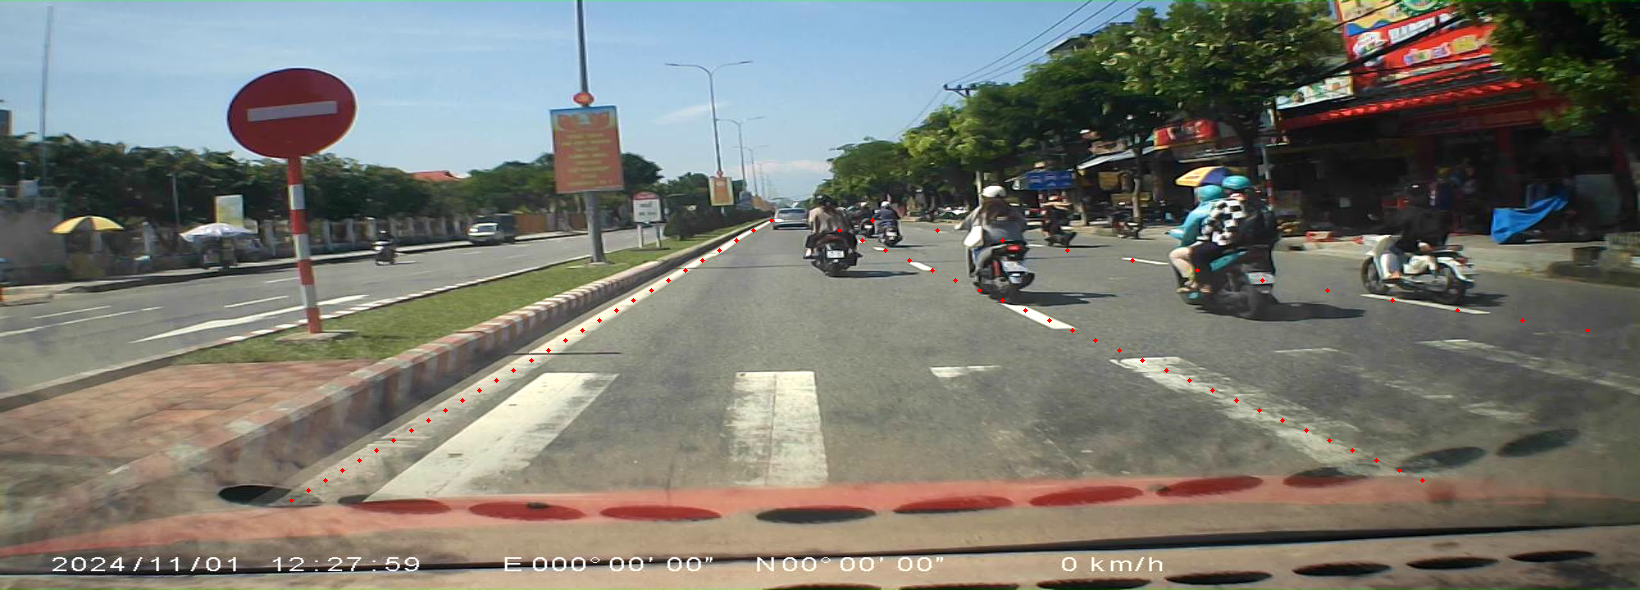
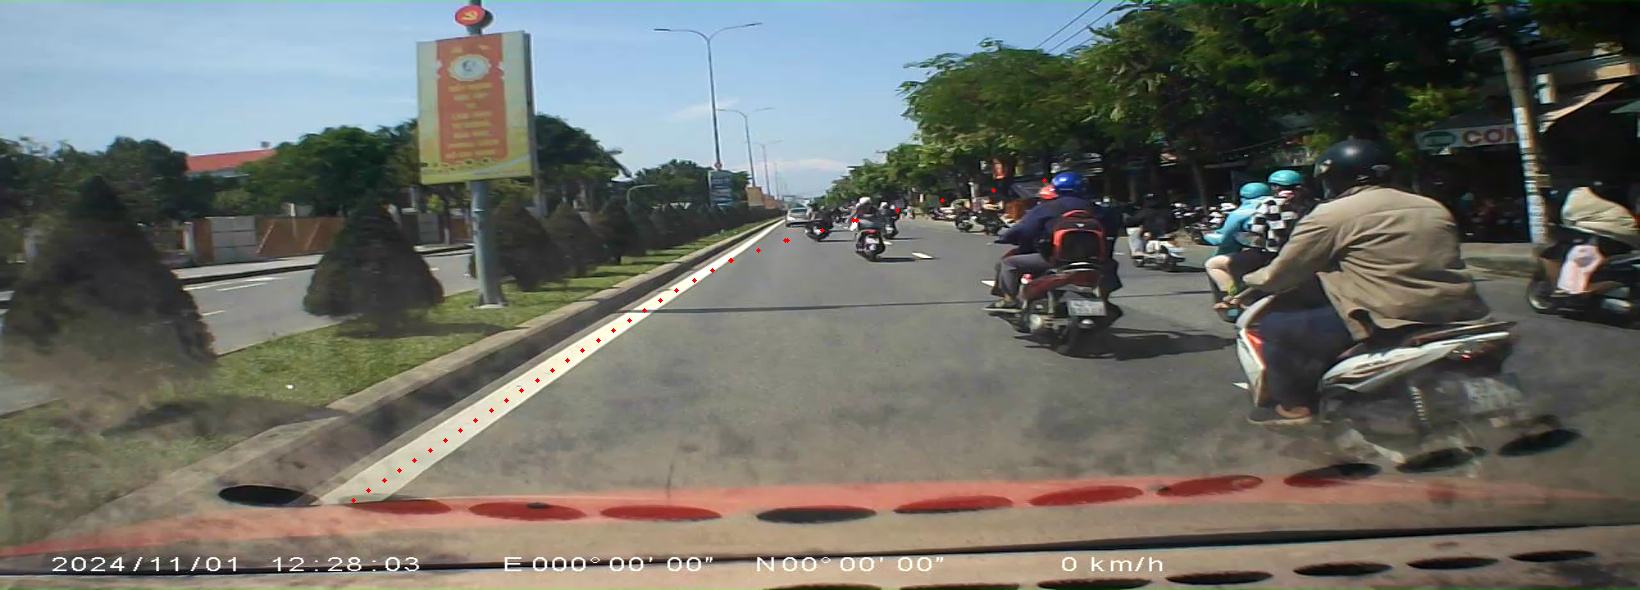
fix points

diff --git a/tool_label.py b/tool_label.py
@@ -386,50 +386,123 @@ class AnnotationTool:
         x2, y2 = line[1]
         points = []
 
-        # Calculate the slope and intercept of the line
-        slope = (y2 - y1) / (x2 - x1) if x2 != x1 else float('inf')
-        intercept = y1 - slope * x1
-
-        # Ensure y values are rounded to the nearest multiple of 10
-        y_start = round(y1 / 10) * 10
-        y_end = round(y2 / 10) * 10
-
-        # Determine the range for the y-axis based on the direction of drawing
-        if y_start < y_end:
-            y_range = np.arange(y_start, y_end + 10, 10)
+        # Tính độ dốc và hệ số chặn
+        if x2 != x1:
+            slope = (y2 - y1) / (x2 - x1)
         else:
-            y_range = np.arange(y_start, y_end - 10, -10)  # Reverse the range if drawing from bottom to top
+            slope = float('inf')
 
-        for y in y_range:
-            if slope != float('inf'):
+        # Trường hợp đường thẳng đứng (vertical)
+        if slope == float('inf'):
+            y_start = round(min(y1, y2) / 10) * 10
+            y_end = round(max(y1, y2) / 10) * 10
+            y_range = np.arange(y_start, y_end + 10, 10) if y_start < y_end else np.arange(y_start, y_end - 10, -10)
+            for y in y_range:
+                points.append((x1, y))
+        # Trường hợp đường thẳng ngang (horizontal)
+        elif slope == 0:
+            x_start = round(min(x1, x2) / 10) * 10
+            x_end = round(max(x1, x2) / 10) * 10
+            x_range = np.arange(x_start, x_end + 10, 10) if x_start < x_end else np.arange(x_start, x_end - 10, -10)
+            for x in x_range:
+                points.append((x, y1))  # y giữ nguyên vì đường ngang
+        # Trường hợp đường thẳng nghiêng (slanted)
+        else:
+            intercept = y1 - slope * x1
+            y_start = round(min(y1, y2) / 10) * 10
+            y_end = round(max(y1, y2) / 10) * 10
+            y_range = np.arange(y_start, y_end + 10, 10) if y_start < y_end else np.arange(y_start, y_end - 10, -10)
+            for y in y_range:
                 x = (y - intercept) / slope
-            else:
-                x = x1
-            # Keep x as float and round y to the nearest multiple of 10
-            points.append((x, y))
-        
+                points.append((x, y))
+
         return points
 
+    def generate_points_from_curve_or_polygon(self, points):
+        all_points = []
+        
+        for i in range(len(points) - 1):
+            x1, y1 = points[i]
+            x2, y2 = points[i + 1]
+            
+            # Tính độ dốc và khoảng cách
+            dx = x2 - x1
+            dy = y2 - y1
+            
+            # Trường hợp đường thẳng đứng (vertical)
+            if dx == 0:
+                y_start = round(min(y1, y2) / 10) * 10
+                y_end = round(max(y1, y2) / 10) * 10
+                y_range = np.arange(y_start, y_end + 10, 10) if y_start < y_end else np.arange(y_start, y_end - 10, -10)
+                for y in y_range:
+                    all_points.append((x1, y))
+            
+            # Trường hợp đường thẳng ngang (horizontal)
+            elif dy == 0:
+                x_start = round(min(x1, x2) / 10) * 10
+                x_end = round(max(x1, x2) / 10) * 10
+                x_range = np.arange(x_start, x_end + 10, 10) if x_start < x_end else np.arange(x_start, x_end - 10, -10)
+                for x in x_range:
+                    all_points.append((x, y1))
+            
+            # Trường hợp đường thẳng nghiêng (slanted)
+            else:
+                slope = dy / dx
+                intercept = y1 - slope * x1
+                y_start = round(min(y1, y2) / 10) * 10
+                y_end = round(max(y1, y2) / 10) * 10
+                y_range = np.arange(y_start, y_end + 10, 10) if y_start < y_end else np.arange(y_start, y_end - 10, -10)
+                for y in y_range:
+                    x = (y - intercept) / slope
+                    all_points.append((x, y))
+        
+        # Đảm bảo điểm cuối cùng được thêm vào nếu chưa có
+        if points[-1] not in all_points:
+            all_points.append(points[-1])
+        
+        return all_points
+
+    def generate_points_from_polyline(self, segments):
+        all_points = []
+        for seg in segments:
+            line_points = self.generate_points_from_line([seg['start'], seg['end']])
+            if all_points and line_points and line_points[0] == all_points[-1]:
+                line_points = line_points[1:]
+            all_points.extend(line_points)
+        # Remove duplicates while preserving order
+        return list(dict.fromkeys(all_points))
 
     def generate_and_save_points(self, base_name):
-        points_per_line = []
-
+        points_per_object = []
         for obj in self.annotations:
+            obj_points = []
             for annotation in obj['annotations']:
                 if annotation[0] == 'line':
-                    line = [annotation[1], annotation[2]]  # Get the start and end coordinates
+                    line = [annotation[1], annotation[2]]
                     points = self.generate_points_from_line(line)
-                    points_per_line.append(points)
+                    obj_points.extend(points)
+                elif annotation[0] == 'curve':
+                    points = self.generate_points_from_curve_or_polygon(annotation[1])
+                    obj_points.extend(points)
+                elif annotation[0] == 'polyline':
+                    points = self.generate_points_from_polyline(annotation[1])
+                    obj_points.extend(points)
+                elif annotation[0] == 'polygon':
+                    points = self.generate_points_from_curve_or_polygon(annotation[1])
+                    obj_points.extend(points)
+            if obj_points:
+                points_per_object.append(obj_points)
 
-        # Write points to a text file
         txt_path = f"gt_image/{base_name}.lines.txt"
-        with open(txt_path, "w") as file:
-            for line_points in points_per_line:
-                # Sort points by y in descending order
-                line_points_sorted = sorted(line_points, key=lambda point: point[1], reverse=True)
-                # Convert the list of points into a single string, where each point is separated by a space
-                line_str = " ".join([f"{point[0]:.4f} {point[1]}" for point in line_points_sorted])
-                file.write(line_str + "\n")  # Write each lane's points as a single line
+        try:
+            with open(txt_path, "w") as file:
+                for obj_points in points_per_object:
+                    sorted_points = sorted(obj_points, key=lambda p: p[1], reverse=True)
+                    line_str = " ".join([f"{pt[0]:.4f} {pt[1]}" for pt in sorted_points])
+                    file.write(line_str + "\n")
+            self.show_status(f"Saved points to {txt_path}")
+        except Exception as e:
+            self.show_status(f"Error saving points to {txt_path}: {str(e)}", error=True)
 
     def save_images(self, event=None):
         if not self.img_path or len(self.image_path_list) == 0:

diff --git a/test.py b/test.py
@@ -1,0 +1,101 @@
+import json
+import numpy as np
+import os
+
+def generate_points_from_line(line):
+    x1, y1 = line[0]
+    x2, y2 = line[1]
+    points = []
+    slope = (y2 - y1) / (x2 - x1) if x2 != x1 else float('inf')
+    intercept = y1 - slope * x1
+    y_start = round(y1 / 10) * 10
+    y_end = round(y2 / 10) * 10
+    if y_start < y_end:
+        y_range = np.arange(y_start, y_end + 10, 10)
+    else:
+        y_range = np.arange(y_start, y_end - 10, -10)
+    for y in y_range:
+        if slope != float('inf'):
+            x = (y - intercept) / slope
+        else:
+            x = x1
+        points.append((x, y))
+    return points
+
+def generate_points_from_curve(points):
+    all_points = []
+    for i in range(len(points) - 1):
+        x1, y1 = points[i]
+        x2, y2 = points[i + 1]
+        slope = (y2 - y1) / (x2 - x1) if x2 != x1 else float('inf')
+        intercept = y1 - slope * x1
+        y_start = round(y1 / 10) * 10
+        y_end = round(y2 / 10) * 10
+        if y_start < y_end:
+            y_range = np.arange(y_start, y_end + 10, 10)
+        else:
+            y_range = np.arange(y_start, y_end - 10, -10)
+        for y in y_range:
+            if slope != float('inf'):
+                x = (y - intercept) / slope
+            else:
+                x = x1
+            all_points.append((x, y))
+    # Thêm điểm cuối nếu chưa có
+    if points[-1] not in all_points:
+        all_points.append(points[-1])
+    return all_points
+
+# Đường dẫn file JSON (thay bằng đường dẫn thực tế của bạn)
+json_file_path = r"D:\lane_labeling_tool\annotations\0003.json"  # Thay bằng đường dẫn thực tế
+output_txt_path = "gt_image/output.lines.txt"  # Đường dẫn file txt đầu ra
+
+# Đảm bảo thư mục đầu ra tồn tại
+os.makedirs(os.path.dirname(output_txt_path), exist_ok=True)
+
+# Đọc file JSON
+try:
+    with open(json_file_path, 'r') as f:
+        data = json.load(f)
+except FileNotFoundError:
+    print(f"Error: File {json_file_path} not found.")
+    exit(1)
+except json.JSONDecodeError:
+    print(f"Error: File {json_file_path} is not a valid JSON.")
+    exit(1)
+
+# Sinh điểm từ dữ liệu JSON
+points_per_object = []
+
+for obj in data["annotations"]:
+    obj_points = []
+    for annotation in obj["annotations"]:
+        if annotation[0] == "line":
+            line = [annotation[1], annotation[2]]
+            points = generate_points_from_line(line)
+            obj_points.extend(points)
+        elif annotation[0] == "curve":
+            points = generate_points_from_curve(annotation[1])
+            obj_points.extend(points)
+    
+    if obj_points:
+        # Sắp xếp theo Y giảm dần
+        sorted_points = sorted(obj_points, key=lambda point: point[1], reverse=True)
+        points_per_object.append(sorted_points)
+
+# Ghi điểm vào file txt
+try:
+    with open(output_txt_path, "w") as file:
+        for obj_points in points_per_object:
+            line_str = " ".join([f"{point[0]:.4f} {point[1]}" for point in obj_points])
+            file.write(line_str + "\n")
+    print(f"Points saved to {output_txt_path}")
+except Exception as e:
+    print(f"Error saving to file: {str(e)}")
+
+# (Tùy chọn) In ra console để kiểm tra
+for i, obj_points in enumerate(points_per_object):
+    line_str = " ".join([f"{point[0]:.4f} {point[1]}" for point in obj_points])
+    print(f"Lane {data['annotations'][i]['id']}:")
+    print(line_str)
+    print()

diff --git a/check2.py b/check2.py
@@ -1,11 +1,11 @@
 import cv2
 
 # Đọc ảnh gốc
-image = cv2.imread("D:/lane_labeling_tool/gt_image/0000.png")
+image = cv2.imread("D:/lane_labeling_tool/gt_image/0004.png")
 
 # Đọc các điểm từ file .txt
 points = []
-with open(r"D:\lane_labeling_tool\gt_image\0000.lines.txt", "r") as file:
+with open(r"D:\lane_labeling_tool\gt_image\0004.lines.txt", "r") as file:
     for line in file:
         # Tách các giá trị x, y trong mỗi dòng
         values = line.split()
